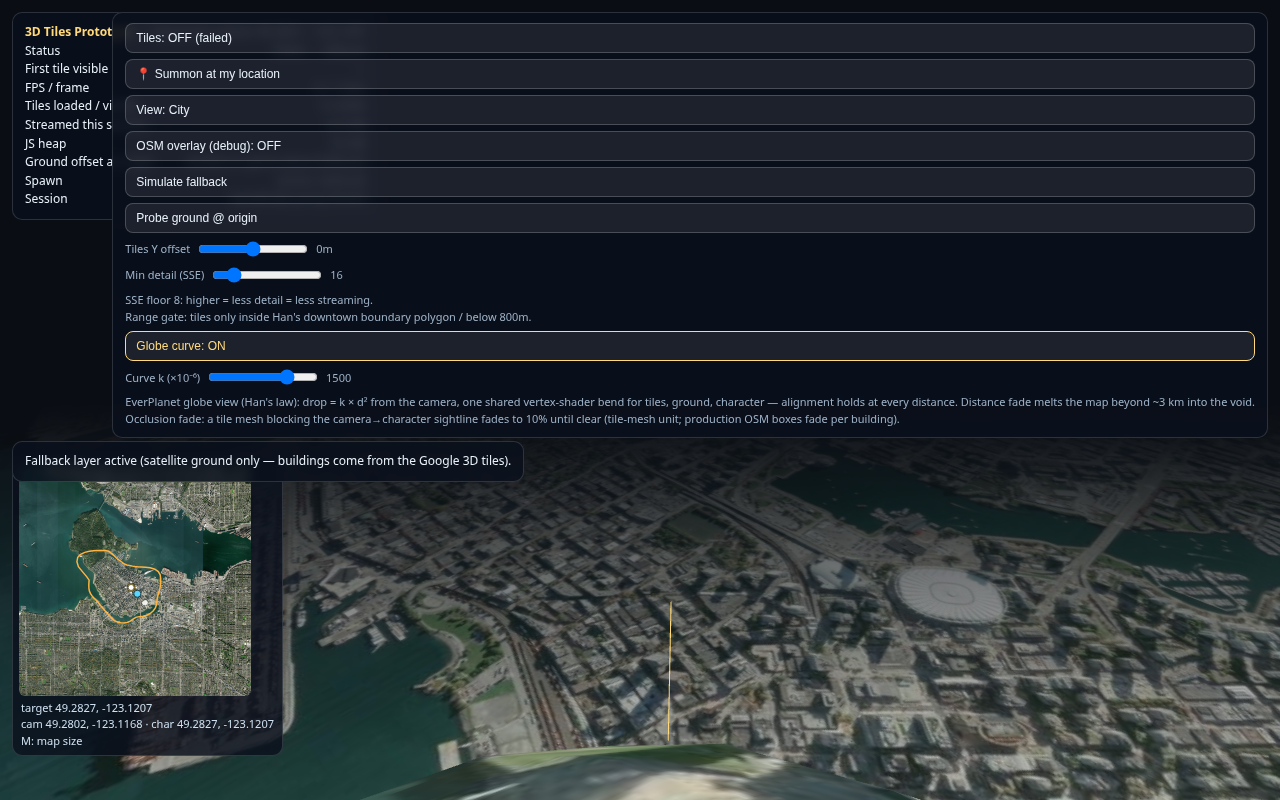
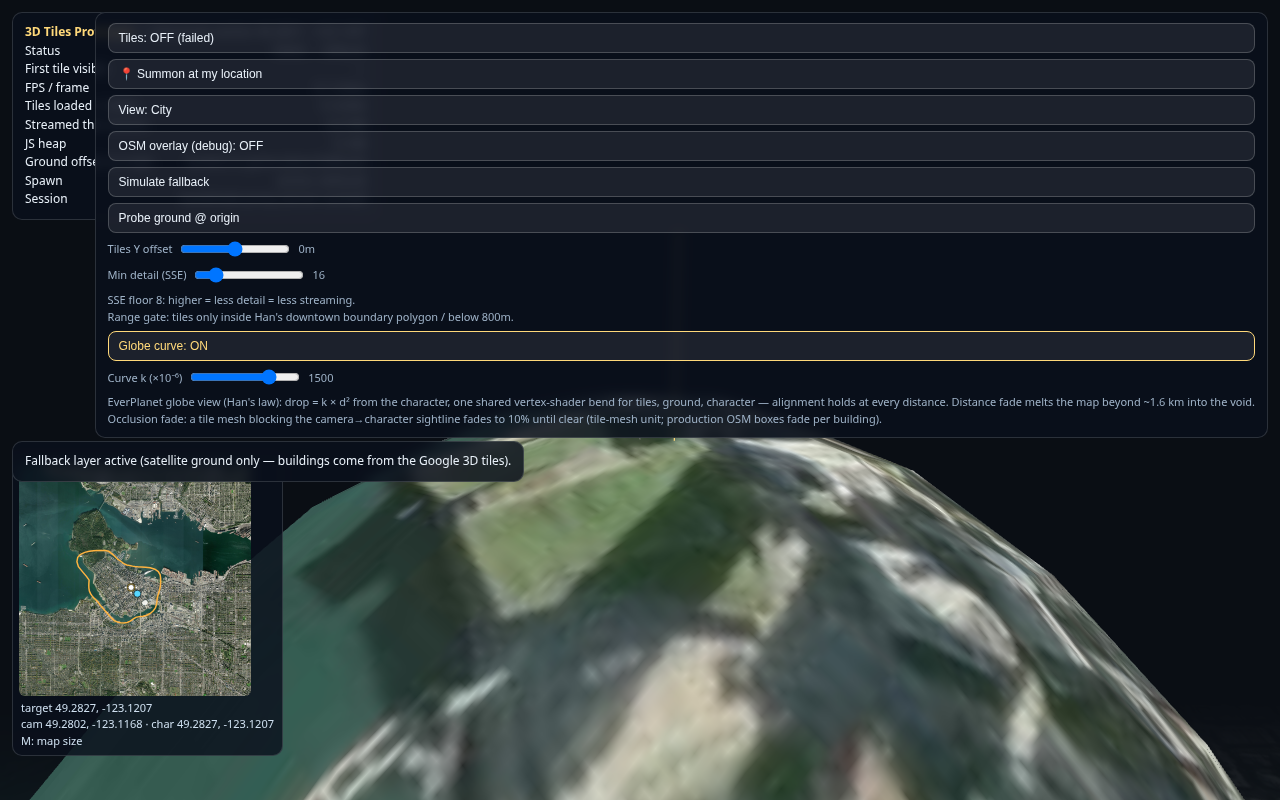
Deploy site

diff --git a/tiles-prototype/index.html b/tiles-prototype/index.html
@@ -78,7 +78,7 @@
   <div style="font-size:11px;color:#9fb3c8">SSE floor 8: higher = less detail = less streaming.<br>Range gate: tiles only inside Han's downtown boundary polygon / below 800m.</div>
   <button id="btn-curve" class="on">Globe curve: ON</button>
   <label>Curve k (×10⁻⁶) <input type="range" id="curve-k" min="0" max="2000" step="25" value="1500"><span id="curve-k-v">1500</span></label>
-  <div style="font-size:11px;color:#9fb3c8">EverPlanet globe view (Han's law): drop = k × d² from the camera, one shared vertex-shader bend for tiles, ground, character — alignment holds at every distance. Distance fade melts the map beyond ~3 km into the void.<br>Occlusion fade: a tile mesh blocking the camera→character sightline fades to 10% until clear (tile-mesh unit; production OSM boxes fade per building).</div>
+  <div style="font-size:11px;color:#9fb3c8">EverPlanet globe view (Han's law): drop = k × d² from the character, one shared vertex-shader bend for tiles, ground, character — alignment holds at every distance. Distance fade melts the map beyond ~1.6 km into the void.<br>Occlusion fade: a tile mesh blocking the camera→character sightline fades to 10% until clear (tile-mesh unit; production OSM boxes fade per building).</div>
 </div>
 
 <div class="panel" id="fallback-note">Fallback layer active (satellite ground only — buildings come from the Google 3D tiles).</div>
@@ -182,6 +182,27 @@ renderer.setSize(innerWidth, innerHeight);
 $('app').appendChild(renderer.domElement);
 
 const scene = new THREE.Scene();
+/* Underlay (Han's hollow-shell report, 2026-10-15): the tiles world
+   is a shell with nothing under the floor, so a faded mesh used to
+   show the far side of the world through the gap. This opaque dark
+   disc sits 2.5 m under the ground, spans past the map, and bends
+   with the same shader - looking through a ghost lands on it. */
+{
+  /* Exact twin of the satellite plane (same size/grid/transform, 2.7 m
+     lower): identical vertices bend identically, so it can NEVER poke
+     through the surface above it - a coarser or larger grid would
+     (chord deviation over the dome's crest exceeds the gap). The
+     visible disc is always well inside the satellite bounds, and
+     beyond them the fog has already erased everything. */
+  const under = new THREE.Mesh(
+    new THREE.PlaneGeometry(5356 - (-5008), 4854 - (-5521), 96, 96),
+    new THREE.MeshBasicMaterial({ color: 0x0c1016 })
+  );
+  under.rotation.x = -Math.PI / 2;
+  under.rotation.z = Math.PI;
+  under.position.set(174, -3.0, -333.5);
+  scene.add(under);
+}
 /* Occluders live under one root so the sightline fade (below) scans a
    single subtree: the tiles group, when tiles are on. */
 const occluderRoot = new THREE.Group();
@@ -189,9 +210,11 @@ scene.add(occluderRoot);
 scene.background = new THREE.Color(0x0a0e14);
 /* Distance fade (Han, 2026-10-15): beyond the planet's curve the map
    must vanish - fog melts distant geometry into the background void,
-   fully faded by 3000 m, starting at 700 m. Fog depth comes from the
+   fully faded by 1600 m, starting at 500 m (tightened after Han's
+   descent report: the dome's far shoulder must dissolve into the fog
+   before it can read as a separate ball on the flat land). Fog depth comes from the
    bent view position, so it tracks the curved world. */
-scene.fog = new THREE.Fog(0x0a0e14, 700, 3000);
+scene.fog = new THREE.Fog(0x0a0e14, 500, 1600);
 const camera = new THREE.PerspectiveCamera(55, innerWidth / innerHeight, 0.1, 20000);
 const controls = new OrbitControls(camera, renderer.domElement);
 let viewName = 'character';
@@ -391,7 +414,7 @@ function fadeSetMesh(mesh, faded) {
     const orig = mesh.material;
     const cloneOne = (m) => {
       const c = m.clone();
-      c.transparent = true; c.depthWrite = false; c.opacity = 1;
+      c.transparent = true; c.depthWrite = true; c.opacity = 1;
       patchBendMaterial(c);
       return c;
     };
@@ -977,6 +1000,13 @@ let camGroundY = null, lastCamProbe = 0;
    (dx²·70 + dz²·80)/120000 capped at 1000 — Han's law here is the
    isotropic camera-relative form). */
 const BEND_K = { value: 0.0015 }; // shared uniform object — one update bends all
+/* Bend reference = the CHARACTER (Han's descent report, 2026-10-15):
+   with a camera reference the un-dropped disc travels with the camera
+   and reads as a ball sprouting on flat land during the sky descent.
+   Anchored to the character, the dome sits at the city you are falling
+   toward - and in normal play (camera 7-14 m from the character) it is
+   indistinguishable from camera-relative. Same law, same k. */
+const BEND_CENTER = { value: new THREE.Vector2(0, 0) };
 const bendPatched = new WeakSet();
 const BEND_CHUNK = [
   'vec4 bwp = vec4( transformed, 1.0 );',
@@ -984,7 +1014,7 @@ const BEND_CHUNK = [
   '  bwp = instanceMatrix * bwp;',
   '#endif',
   'bwp = modelMatrix * bwp;',
-  'float bd = distance( bwp.xz, cameraPosition.xz );',
+  'float bd = distance( bwp.xz, uBendCenter );',
   'bwp.y -= min( uBendK * bd * bd, 1000.0 );',
   'vec4 mvPosition = viewMatrix * bwp;',
   'gl_Position = projectionMatrix * mvPosition;'
@@ -992,9 +1022,14 @@ const BEND_CHUNK = [
 function patchBendMaterial(mat) {
   if (!mat || bendPatched.has(mat)) return;
   bendPatched.add(mat);
+  /* DoubleSide: at k=1500 the dome's crest tilts past 65 degrees - with
+     FrontSide only, oblique views punch backface holes through the
+     world (part of Han's piercing report). Closed look wins. */
+  mat.side = THREE.DoubleSide;
   mat.onBeforeCompile = (shader) => {
     shader.uniforms.uBendK = BEND_K;
-    shader.vertexShader = 'uniform float uBendK;\n' + shader.vertexShader.replace('#include <project_vertex>', BEND_CHUNK);
+    shader.uniforms.uBendCenter = BEND_CENTER;
+    shader.vertexShader = 'uniform float uBendK;\nuniform vec2 uBendCenter;\n' + shader.vertexShader.replace('#include <project_vertex>', BEND_CHUNK);
   };
   mat.needsUpdate = true;
 }
@@ -1141,6 +1176,7 @@ function animate() {
   const dt = Math.min(clock.getDelta(), 0.05);
   if (charMixer) charMixer.update(dt);
   stepEntry(dt);
+  if (character) BEND_CENTER.value.set(character.position.x, character.position.z);
   sweepBend(t0);
   scanOcclusion(t0);
   stepFades(dt);

diff --git a/tiles-prototype/README.md b/tiles-prototype/README.md
@@ -160,7 +160,11 @@ peninsula; the False Creek box lands on False Creek).
 ## Globe curvature + occlusion fade (2026-10-15, per Han)
 
 - **Globe view (Han's EverPlanet law)**: `drop = k × d²`, d = distance
-  from the CAMERA, rendered by ONE shared vertex-shader bend injected
+  from the CHARACTER (anchored 2026-10-15 after Han's descent report:
+  a camera anchor made the un-dropped disc travel with the camera and
+  read as a ball sprouting on flat land; at gameplay distances the two
+  are indistinguishable, and this matches the production curvedMat's
+  player reference), rendered by ONE shared vertex-shader bend injected
   into every scene material (tiles, satellite ground, OSM overlay,
   character) - the same world point always bends identically, so
   tile/OSM/character alignment holds by construction. Geometry, tile
@@ -169,9 +173,15 @@ peninsula; the False Creek box lands on False Creek).
   (k shown ×10⁻⁶; default 1500 per Han 2026-10-15, range 0-2000;
   drop capped at 1000 m, so it saturates past ~820 m at the default).
   Distance fade (Han, 2026-10-15): scene fog melts geometry into the
-  background void from 700 m to fully faded at 3000 m, so the map
-  beyond the planet's curve is never seen. Fog depth comes from the
-  bent view position, so it tracks the curved world.
+  background void from 500 m to fully faded at 1600 m, so the map
+  beyond the planet's curve is never seen and the dome's far shoulder
+  dissolves before it reads as a separate ball. Fog depth comes from
+  the bent view position, so it tracks the curved world. All bent
+  materials are DoubleSide (at k=1500 the dome crest tilts past 65°;
+  FrontSide punched backface holes). An opaque dark underlay - an
+  exact twin of the satellite plane 2.7 m below it, bending
+  identically - floors the hollow tiles shell, so looking through a
+  faded mesh lands on dark floor instead of through the world.
   Production comparison: the game's curvedMat uses the same d² family
   but is PLAYER-relative and anisotropic ((dx²·70 + dz²·80)/120000,
   i.e. kx ≈ 5.83e-4, kz ≈ 6.67e-4, capped 1000 m) - the prototype
